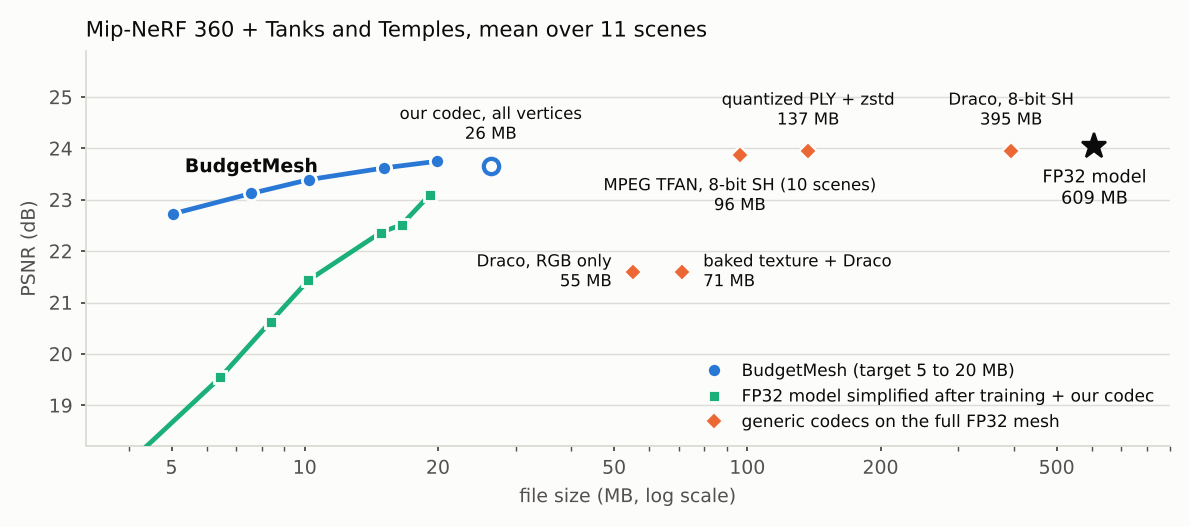
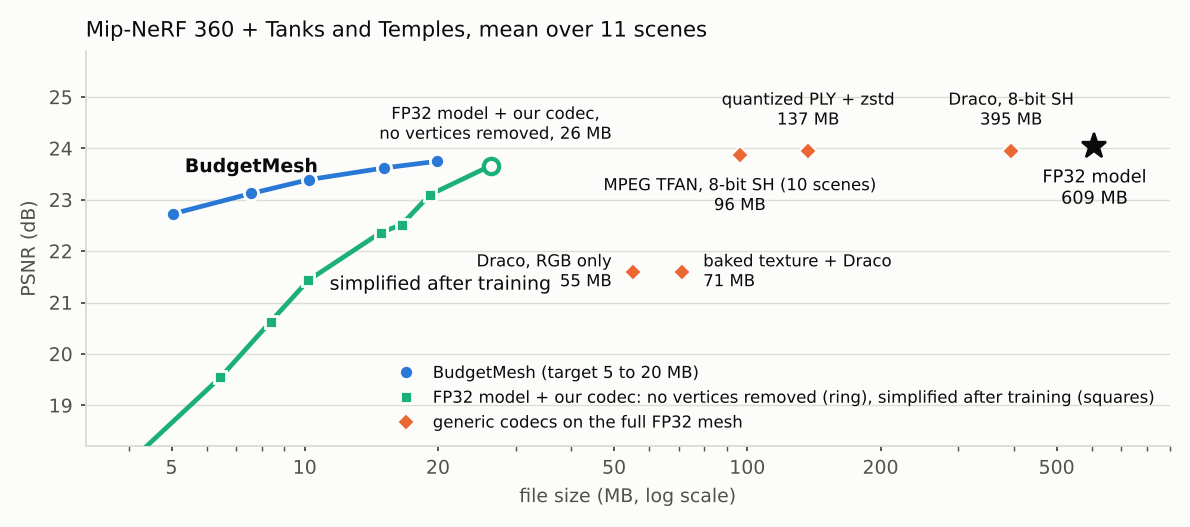
RD figure: the full-mesh point is the end of the simplification curve
Claude-Session: https://claude.ai/code/session_01CTmJ8bXaKwgwrH89NaZre1

diff --git a/paper/figures/make_figures_v4.py b/paper/figures/make_figures_v4.py
@@ -42,24 +42,25 @@ ax.plot(xs, ys, '-', color=BLUE, lw=2, zorder=5); ax.plot(xs, ys, 'o', color=BLU
 ax.annotate('BudgetMesh', (xs[1], ys[1]), textcoords='offset points', xytext=(0, 9), ha='center', fontsize=8, color=INK, fontweight='bold')
 K = min(len(v) for v in simp.values()); gx, gy = [], []
 for k in range(K): pts = [sorted(simp[s], reverse=True)[k] for s in MIP]; gx.append(st.mean(p[0] for p in pts)); gy.append(st.mean(p[1] for p in pts))
-ax.plot(gx, gy, '-', color=AQUA, lw=2, zorder=4); ax.plot(gx, gy, 's', color=AQUA, ms=5.5, mec=SURF, mew=1.2, zorder=4, label='FP32 model simplified after training + our codec')
-ax.annotate('simplified after training', (gx[-1], gy[-1]), textcoords='offset points', xytext=(8, -3), ha='left', fontsize=8, color=INK)
+x0, y0, _ = mean(gen['our codec, all vertices'])  # the same FP32 model with no vertex removed: the end point of this family
+ax.plot([x0] + gx, [y0] + gy, '-', color=AQUA, lw=2, zorder=4); ax.plot(gx, gy, 's', color=AQUA, ms=5.5, mec=SURF, mew=1.2, zorder=4, label='FP32 model + our codec: no vertices removed (ring), simplified after training (squares)')
+ax.annotate('simplified after training', (gx[3], gy[3]), textcoords='offset points', xytext=(9, -4), ha='left', fontsize=8, color=INK)
 fx, fy = st.mean(FP[s][0] for s in MIP), st.mean(FP[s][1] for s in MIP)
 ax.plot([fx], [fy], '*', color=INK, ms=11, zorder=6); ax.annotate('FP32 model\n%.0f MB' % fx, (fx, fy), textcoords='offset points', xytext=(0, -9), ha='center', va='top', fontsize=7.5, color=INK)
-off = {'our codec, all vertices': (0, 9, 'center'), 'quantized PLY + zstd': (0, 9, 'center'), 'Draco, 8-bit SH': (0, 9, 'center'), 'MPEG TFAN, 8-bit SH': (0, -9, 'center'), 'Draco, RGB only': (-9, 0, 'right'), 'baked texture + Draco': (9, 0, 'left')}
+off = {'our codec, all vertices': (2, 9, 'center'), 'quantized PLY + zstd': (0, 9, 'center'), 'Draco, 8-bit SH': (0, 9, 'center'), 'MPEG TFAN, 8-bit SH': (0, -9, 'center'), 'Draco, RGB only': (-9, 0, 'right'), 'baked texture + Draco': (9, 0, 'left')}
 first = True
 for name, d in gen.items():
     x, y, n = mean(d)
-    if name == 'our codec, all vertices': ax.plot([x], [y], 'o', color=SURF, ms=6.5, mec=BLUE, mew=1.8, zorder=6)
+    if name == 'our codec, all vertices': ax.plot([x], [y], 'o', color=SURF, ms=6.5, mec=AQUA, mew=1.8, zorder=6)
     else: ax.plot([x], [y], 'D', color=ORANGE, ms=5.5, mec=SURF, mew=1.0, zorder=5, label='generic codecs on the full FP32 mesh' if first else None); first = False
-    dx, dy, ha = off[name]; ax.annotate(name + (' (10 scenes)' if n == 10 else '') + '\n%.0f MB' % x, (x, y), textcoords='offset points', xytext=(dx, dy), ha=ha, va='bottom' if dy > 0 else ('top' if dy < 0 else 'center'), fontsize=7, color=INK)
+    dx, dy, ha = off[name]; ax.annotate({'our codec, all vertices': 'FP32 model + our codec,\nno vertices removed'}.get(name, name) + (' (10 scenes)' if n == 10 else '') + ('\n%.0f MB' % x if name != 'our codec, all vertices' else ', %.0f MB' % x), (x, y), textcoords='offset points', xytext=(dx, dy), ha=ha, va='bottom' if dy > 0 else ('top' if dy < 0 else 'center'), fontsize=7, color=INK)
 ax.set_xscale('log'); ax.set_xlim(3.2, 900); ax.set_ylim(18.2, 25.9)
 import matplotlib.ticker as mt
 ax.xaxis.set_major_locator(mt.FixedLocator([5, 10, 20, 50, 100, 200, 500])); ax.xaxis.set_major_formatter(mt.FuncFormatter(lambda v, _: '%g' % v)); ax.xaxis.set_minor_formatter(mt.NullFormatter())
 ax.set_xlabel('file size (MB, log scale)'); ax.set_ylabel('PSNR (dB)'); ax.grid(axis='y', color=GRID, lw=0.6); ax.set_axisbelow(True)
 for s_ in ('top', 'right'): ax.spines[s_].set_visible(False)
 ax.tick_params(length=2); ax.set_title('Mip-NeRF 360 + Tanks and Temples, mean over 11 scenes', loc='left', fontsize=9, color=INK, pad=6)
-ax.legend(loc='lower right', frameon=False, fontsize=7.2, handlelength=1.6)
+ax.legend(loc='lower right', frameon=False, fontsize=7.0, handlelength=1.6)
 fig.tight_layout(); fig.savefig('paper/figures/fig_rd_system_v1.pdf'); fig.savefig('paper/figures/fig_rd_system_v1.png', dpi=170); plt.close(fig)
 # ---------------------------------------------------------------- figure 2
 txt = open('release-batch30-overnight/results/batch30-collect-2026-11-12-2007.txt').read(); sec = {m.group(1): m.group(2) for m in re.finditer(r'===== ([^\n]+)\n(.*?)(?=\n===== |\Z)', txt, re.S)}
